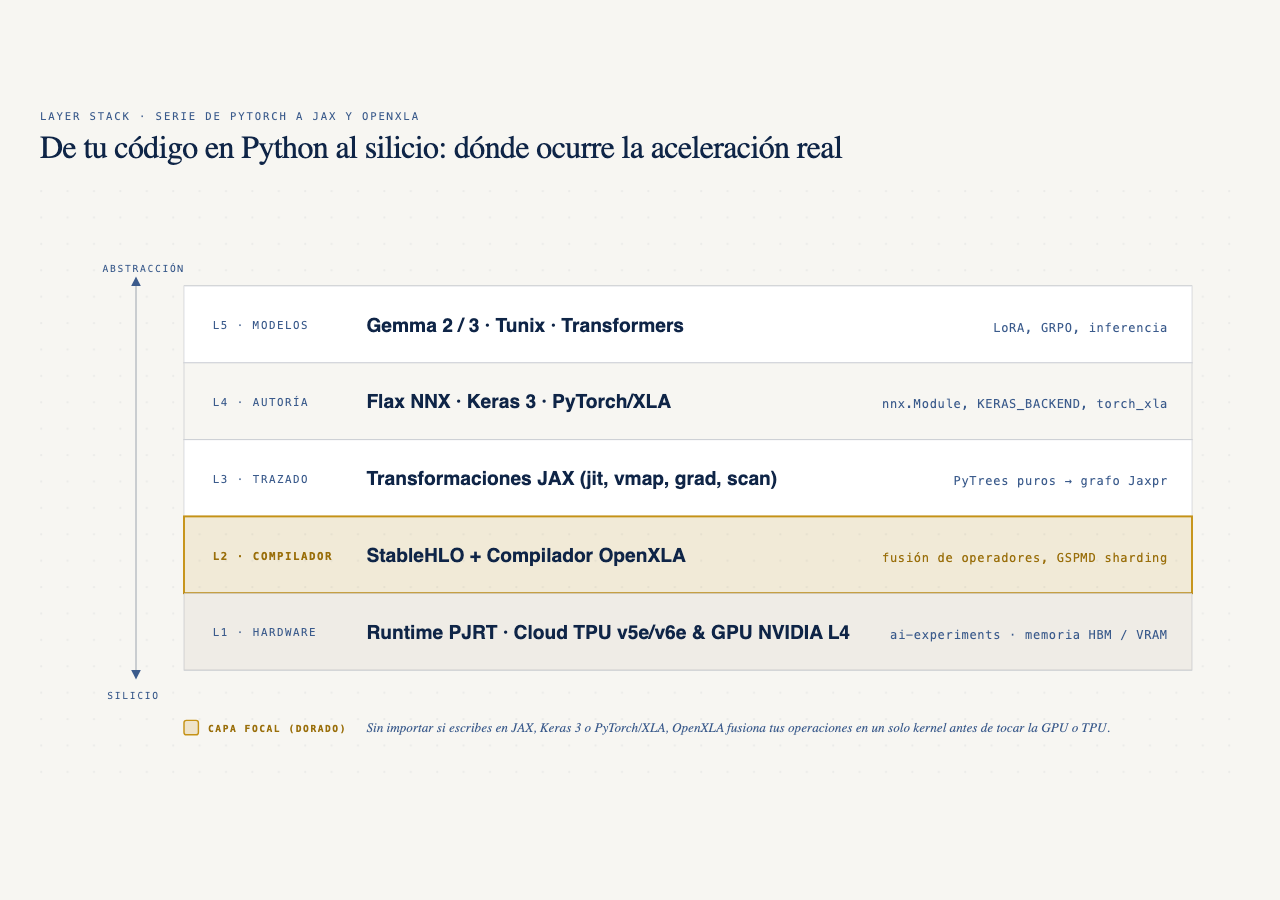
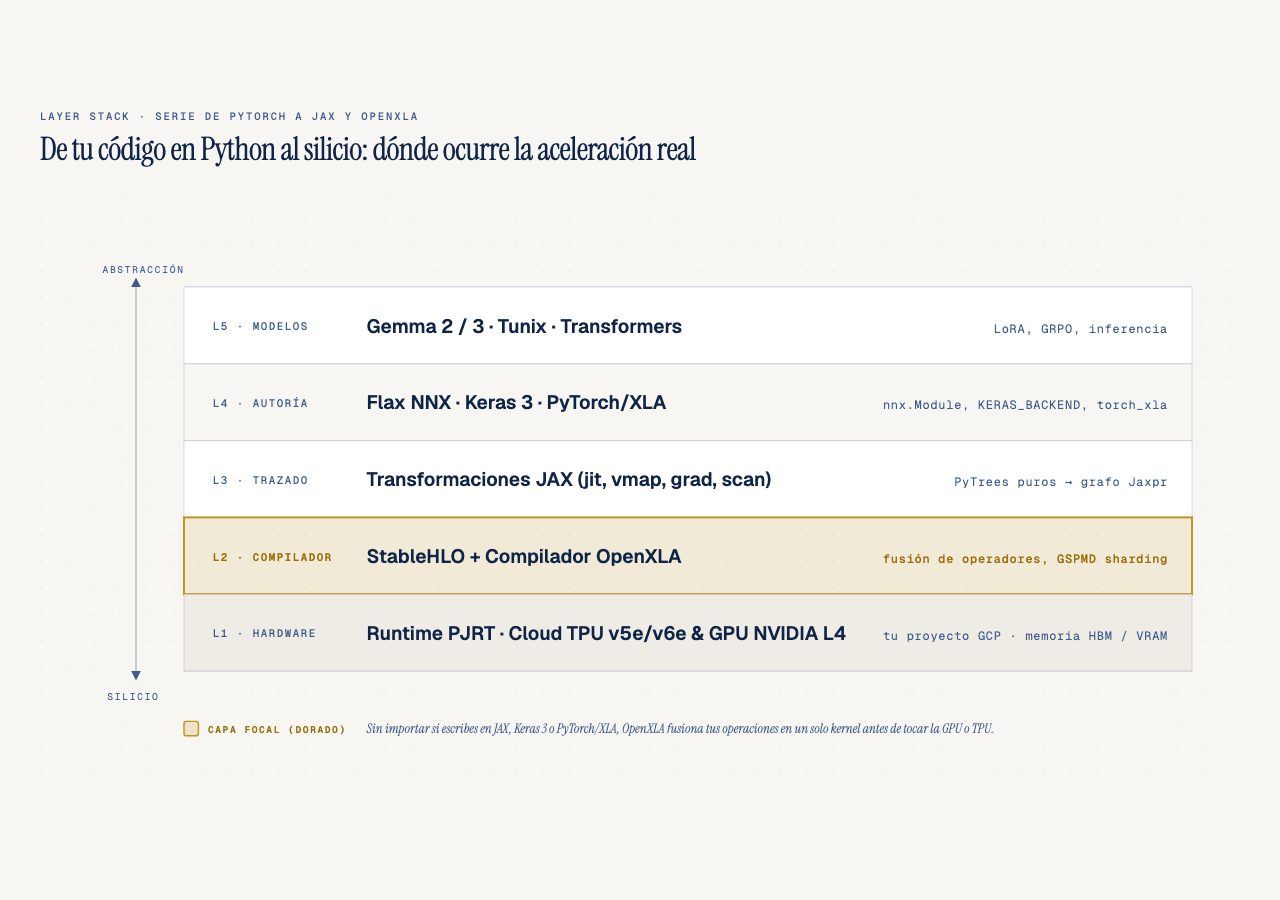
Index: baselines for A1-A4 figures, CPU-only note, drop project name

diff --git a/diagrams/03-gcp-ephemeral-arch.html b/diagrams/03-gcp-ephemeral-arch.html
@@ -85,10 +85,10 @@
         <rect x="56" y="68" width="144" height="16" rx="2" fill="#F7F6F2"/>
         <text x="128" y="79" fill="#3B5B8C" font-size="8" font-family="'Geist Mono', monospace" text-anchor="middle" letter-spacing="0.14em">1 · VALIDACIÓN LOCAL</text>
 
-        <!-- Zone 2: Cómputo Acelerado On-Demand (ai-experiments) -->
+        <!-- Zone 2: Cómputo Acelerado On-Demand -->
         <rect x="336" y="64" width="328" height="384" rx="8" fill="rgba(197,146,22,0.04)" stroke="rgba(197,146,22,0.40)" stroke-width="1" stroke-dasharray="4,4"/>
         <rect x="356" y="68" width="272" height="16" rx="2" fill="#F7F6F2"/>
-        <text x="492" y="79" fill="#9A6F0B" font-size="8" font-family="'Geist Mono', monospace" text-anchor="middle" letter-spacing="0.14em" font-weight="600">2 · CÓMPUTO ON-DEMAND (AI-EXPERIMENTS)</text>
+        <text x="492" y="79" fill="#9A6F0B" font-size="8" font-family="'Geist Mono', monospace" text-anchor="middle" letter-spacing="0.14em" font-weight="600">2 · CÓMPUTO ON-DEMAND (TU PROYECTO)</text>
 
         <!-- Zone 3: Persistencia y Serving Serverless -->
         <rect x="760" y="64" width="240" height="384" rx="8" fill="rgba(15,37,71,0.02)" stroke="rgba(15,37,71,0.16)" stroke-width="0.8"/>

diff --git a/diagrams/01-openxla-layer-stack.html b/diagrams/01-openxla-layer-stack.html
@@ -117,7 +117,7 @@
         <rect x="120" y="336" width="840" height="64" fill="#EFECE6" stroke="rgba(15,37,71,0.12)" stroke-width="1"/>
         <text x="144" y="372" fill="#3B5B8C" font-size="9" font-family="'Geist Mono', monospace" letter-spacing="0.14em" font-weight="500">L1 · HARDWARE</text>
         <text x="272" y="374" fill="#0F2547" font-size="16" font-weight="600" font-family="'Geist', sans-serif">Runtime PJRT · Cloud TPU v5e/v6e &amp; GPU NVIDIA L4</text>
-        <text x="940" y="374" fill="#3B5B8C" font-size="10" font-family="'Geist Mono', monospace" text-anchor="end" letter-spacing="0.06em">ai-experiments · memoria HBM / VRAM</text>
+        <text x="940" y="374" fill="#3B5B8C" font-size="10" font-family="'Geist Mono', monospace" text-anchor="end" letter-spacing="0.06em">tu proyecto GCP · memoria HBM / VRAM</text>
 
         <!-- Legend & Focal Caption Strip -->
         <rect x="120" y="442" width="12" height="12" rx="2" fill="rgba(197,146,22,0.18)" stroke="#C59216" stroke-width="1.2"/>

diff --git a/README.md b/README.md
@@ -1,7 +1,7 @@
 # Field Guide: De PyTorch a JAX y OpenXLA en Google Cloud
 
 **Por qué es relevante:** El rendimiento real en GPUs modernas y Cloud TPUs depende del compilador (`OpenXLA` y `StableHLO`), no solo de la sintaxis en Python. Esta serie demuestra con código verificable cómo pasar de loops imperativos en PyTorch a grafos fusionados, particionamiento distribuido y post-entrenamiento de modelos abiertos.
-**Para quién es:** Desarrolladores e ingenieros de Machine Learning que dominan PyTorch y buscan adoptar `JAX`, `Flax NNX`, `Keras 3`, `Gemma + Tunix` o `PyTorch/XLA` con garantías de rendimiento.
+**Para quién es:** Desarrolladores e ingenieros de Machine Learning que dominan PyTorch y buscan adoptar `JAX`, `Flax NNX`, `Keras 3`, post-training estilo `Gemma` con GRPO estilo `Tunix` o `PyTorch/XLA` con garantías de rendimiento.
 **Quién debería verlo:** Equipos de ingeniería de IA, arquitectos de inferencia/entrenamiento y líderes técnicos que operan cargas sobre GPUs (`NVIDIA L4` / `A100`) y `Cloud TPU v5e/v6e` en Google Cloud.
 **Serie paralela para Software Devs (sin experiencia previa en PyTorch):** [JAX & ML for Software Devs Field Guide](https://github.com/ykro/jax-ml-for-software-devs-field-guide).
 
@@ -17,7 +17,7 @@
 
 ![Árbol de decisión del ecosistema OpenXLA](diagrams/02-decision-flowchart.png)
 
-### 3. Cómputo On-Demand en Google Cloud (`ai-experiments`)
+### 3. Cómputo On-Demand en Google Cloud (en tu propio proyecto)
 
 ![Arquitectura de ejecución on-demand en GCP](diagrams/03-gcp-ephemeral-arch.png)
 
@@ -25,16 +25,16 @@
 
 ## Mapa de Repositorios y Resultados Verificados (Outside Judges)
 
-Cada repositorio contiene **5 experimentos ejecutables (`01` a `05`)**, suite de tests con `pytest`, un script de verificación determinista (`verify_*.py`) y runners on-demand con auto-teardown para Google Cloud (`Vertex AI GPU L4`, `Cloud TPU v5e` y `Cloud Run` con escala a cero).
+Cada repositorio contiene **5 experimentos ejecutables (`01` a `05`)**, suite de tests con `pytest`, un script de verificación (`verify_*.py`, con checks deterministas; los tiempos varían entre corridas) y runners on-demand con auto-teardown para Google Cloud (`Vertex AI GPU L4`, `Cloud TPU v5e` y `Cloud Run` con escala a cero). Los runners están preparados, pero las cifras publicadas de la Serie A se midieron en el CPU de una laptop; cada speedup va con su baseline.
 
 ### Serie A — De PyTorch a JAX y OpenXLA
 
 | # | Repositorio | Qué construye y demuestra | Outside Judge (Evidencia real medida) |
 |---|---|---|---|
-| **1** | [jax-for-pytorch-devs](https://github.com/ykro/jax-for-pytorch-devs) | Transición de loops imperativos de PyTorch a funciones puras, PyTrees, `@jax.jit`, `jax.vmap`, `jax.lax.scan` y *static bucket padding*. | **8.85x** speedup con `@jax.jit` (325 líneas StableHLO), **138.78x** en gradientes per-sample con `vmap`, **12.01x** en rollouts con `lax.scan` y **53.76x** eliminando recompilaciones dinámicas (`max_diff <= 3.34e-06`). |
-| **2** | [flax-nnx-transformer-from-scratch](https://github.com/ykro/flax-nnx-transformer-from-scratch) | Construcción de un Transformer causal con RoPE, RMSNorm y SwiGLU en `Flax NNX` (`nnx.Module`, `nnx.split`/`nnx.merge`, `@nnx.jit`). | **136.2x** speedup tras compilación inicial (`449.39 ms` paso 1 vs `3.300 ms` promedio en pasos 2..50), **0 recompilaciones** (57 ops `dot_general`, 281 fusiones HLO) y caída monotónica de pérdida (`5.3140 -> 0.0105`). |
-| **3** | [keras3-multibackend-arena](https://github.com/ykro/keras3-multibackend-arena) | Red multimodal Vision+Tabular (`657,418` parámetros) escrita una sola vez con `keras.ops` y evaluada en `KERAS_BACKEND=jax`, `torch` y `numpy`, más endpoint `Cloud Run`. | Paridad exacta de pesos entre backends (`max_diff = 2.98e-07`), **2.00x mayor throughput en entrenamiento** (`24,794.8 samples/s` en JAX vs `12,401.3 samples/s` en PyTorch) y **1.82x en inferencia** (`55,482.9 samples/s`). |
-| **4** | [gemma-tunix-spanish-posttraining](https://github.com/ykro/gemma-tunix-spanish-posttraining) | Post-entrenamiento de arquitectura `Gemma` (`4.2M` params base en demo local / escalable a 2B+) con mesh 2D (`data`, `model`), LoRA quirúrgico y alineamiento **GRPO** estilo `Tunix`. | **97.90% reducción** de parámetros entrenables con LoRA (`0.0` drift en pesos base), reducción de **2.0x** en memoria por chip en mesh `2x2`, y mejora de recompensa GRPO de **`-0.0625` a `+1.4875`** (**75%** cumplimiento de formato XML en español con muestreo autorregresivo `G=4`). |
+| **1** | [jax-for-pytorch-devs](https://github.com/ykro/jax-for-pytorch-devs) | Transición de loops imperativos de PyTorch a funciones puras, PyTrees, `@jax.jit`, `jax.vmap`, `jax.lax.scan` y *static bucket padding*. | **8.85x** con `@jax.jit` contra la misma función en JAX eager (5.64x contra PyTorch eager, sin `torch.compile`), **138.78x** en gradientes per-sample con `vmap` contra un loop de Python en JAX, **12.01x** con `lax.scan` contra un loop de Python de pasos compilados, y **24 → 3 compilaciones** con static bucket padding (53.76x sin contar el warmup de las cubetas). Paridad `max_diff <= 3.34e-06`. |
+| **2** | [flax-nnx-transformer-from-scratch](https://github.com/ykro/flax-nnx-transformer-from-scratch) | Construcción de un Transformer causal con RoPE, RMSNorm y SwiGLU en `Flax NNX` (`nnx.Module`, `nnx.split`/`nnx.merge`, `@nnx.jit`). | Paridad `< 1e-6` con PyTorch, **1 traza y 0 recompilaciones** en 50 pasos con `@nnx.jit` (57 ops `dot_general`, cientos de fusiones en CPU), y el primer paso con compilación (`449.39 ms`) tarda **~136x** lo que un paso en caché (`3.3 ms`). Pérdida monótona `5.3140 -> 0.0105` sobre un batch fijo. |
+| **3** | [keras3-multibackend-arena](https://github.com/ykro/keras3-multibackend-arena) | Red multimodal Vision+Tabular (`657,418` parámetros) escrita una sola vez con `keras.ops` y evaluada en `KERAS_BACKEND=jax`, `torch` y `numpy`, más un endpoint HTTP preparado para `Cloud Run`. | Paridad entre backends dentro del redondeo `float32` (`max_diff = 2.98e-07`). Keras-jax compilado en CPU contra Keras-torch eager en MPS (una Mac) da **~2x en entrenamiento** (`24,794.8` vs `12,401.3 samples/s`) y **1.82x en inferencia**; compilar, aislado en el mismo CPU, da **1.77x** en el forward. |
+| **4** | [gemma-tunix-spanish-posttraining](https://github.com/ykro/gemma-tunix-spanish-posttraining) | Post-entrenamiento de un modelo estilo `Gemma 2` con pesos aleatorios (`4.2M` params base, sin checkpoint) sobre un mesh 2D (`data`, `model`) simulado con 4 dispositivos en CPU, LoRA quirúrgico y **GRPO** escrito a mano al estilo `Tunix`. | **97.90% reducción** de parámetros entrenables con LoRA (`0.0` drift en pesos base), **2.0x** menos pesos por dispositivo en el mesh `2x2` (aritmética del `PartitionSpec`), y recompensa greedy de **`-0.0625` a `+1.4875`** con **75%** de formato XML, tras 4 pasos de SFT de calentamiento y 24 de GRPO, evaluada sobre los mismos 4 prompts de entrenamiento. |
 | **5** | [pytorch-xla-tpu-playbook](https://github.com/ykro/pytorch-xla-tpu-playbook) | Migración y optimización de modelos PyTorch en `Cloud TPU` con `PyTorch/XLA`, diagnóstico de *graph breaks*, sharding GSPMD y puente zero-copy `PyTorch <-> JAX` via DLPack. | Reducción de recompilaciones post-warmup de `11` a **`0`**, *host barrier stalls* de `12` a **`0`** y *fallbacks* `aten::nonzero` de `12` a **`0`** (`max_abs_diff = 2.98e-08`), más paridad exacta en `autograd.Function` llamando a `@jax.jit` (`grad_diff = 2.91e-11`). |
 
 ---
@@ -47,7 +47,7 @@ Sigue los 5 niveles en orden progresivo desde tu terminal (o empieza por la [Ser
 
 1. **Nivel 1 — Fundamentos del compilador ([jax-for-pytorch-devs](https://github.com/ykro/jax-for-pytorch-devs))** para dominar `@jax.jit`, `Jaxpr`, `StableHLO`, PyTrees puros, `jax.vmap`, `jax.lax.scan` y *static bucket padding*.
 2. **Nivel 2 — Ergonomía con estado en Python ([flax-nnx-transformer-from-scratch](https://github.com/ykro/flax-nnx-transformer-from-scratch))** para construir un Transformer causal con `nnx.Module`, `nnx.split` y `nnx.merge`.
-3. **Nivel 3 — Portabilidad multi-backend ([keras3-multibackend-arena](https://github.com/ykro/keras3-multibackend-arena))** para comparar `KERAS_BACKEND=jax` contra `torch` y desplegar en Cloud Run con escala a cero.
+3. **Nivel 3 — Portabilidad multi-backend ([keras3-multibackend-arena](https://github.com/ykro/keras3-multibackend-arena))** para comparar `KERAS_BACKEND=jax` contra `torch`, aislar lo que aporta compilar y preparar un endpoint para Cloud Run con escala a cero.
 4. **Nivel 4 — Post-entrenamiento distribuido ([gemma-tunix-spanish-posttraining](https://github.com/ykro/gemma-tunix-spanish-posttraining))** para particionar modelos en meshes 2D `('data', 'model')`, inyectar adaptadores `nnx.LoRA` y alinear con GRPO.
 5. **Nivel 5 — Interoperabilidad PyTorch + TPU ([pytorch-xla-tpu-playbook](https://github.com/ykro/pytorch-xla-tpu-playbook))** para llevar código `torch.nn.Module` a Cloud TPU con `LazyTensor`, GSPMD y puentes DLPack hacia `@jax.jit`.
 
